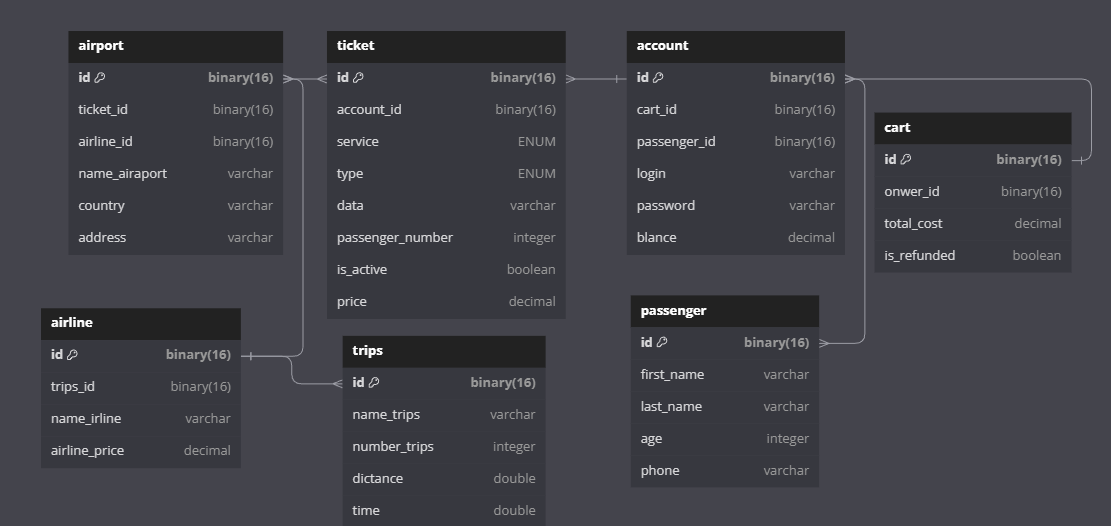
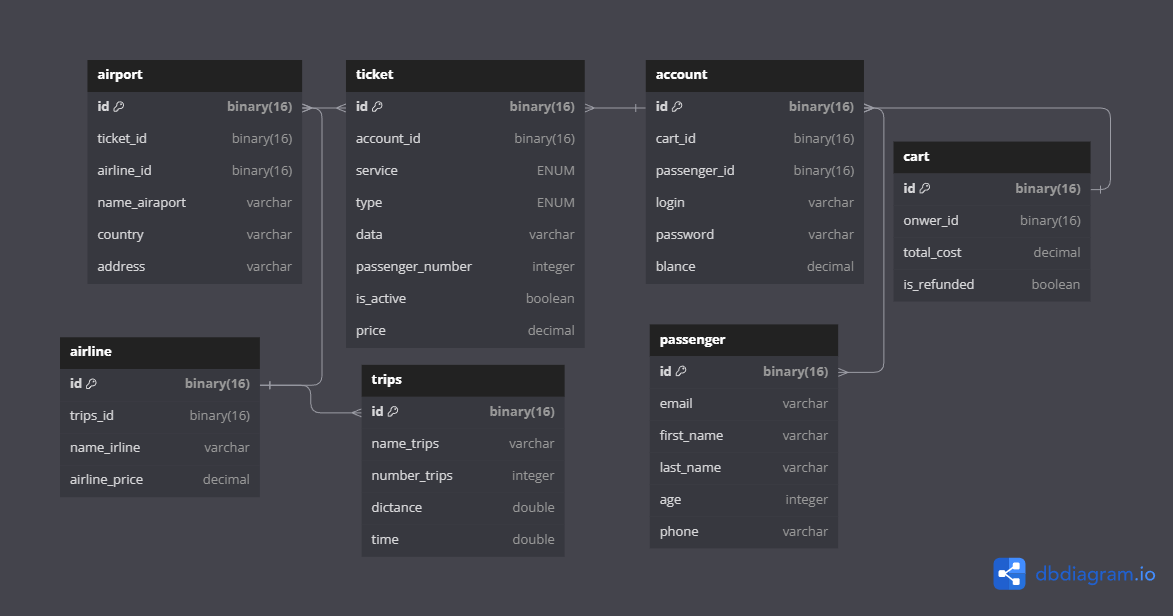
added a new field to the passenger class. updated the png file. changed the enamas to the correct ones.

diff --git a/src/main/java/com/vahner/airticketsapp/entity/Cart.java b/src/main/java/com/vahner/airticketsapp/entity/Cart.java
@@ -7,8 +7,8 @@ import lombok.NoArgsConstructor;
 import lombok.Setter;
 
 import java.math.BigDecimal;
-import java.util.List;
 import java.util.Objects;
+import java.util.Set;
 import java.util.UUID;
 
 import static jakarta.persistence.CascadeType.*;
@@ -30,7 +30,7 @@ public class Cart {
 
     @OneToMany(mappedBy = "account",fetch = FetchType.LAZY,
     orphanRemoval = true,cascade = {MERGE, PERSIST, REFRESH})
-    private List<Ticket> ticketList;
+    private Set<Ticket> ticketSet;
 
     @OneToOne(cascade = {MERGE, PERSIST, REFRESH})
     @Column(name = "onwer_id")
@@ -57,7 +57,7 @@ public class Cart {
         return "Cart{" +
                 "id=" + id +
                 ", totalCost=" + totalCost +
-                ", ticketList=" + ticketList +
+                ", ticketList=" + ticketSet +
                 ", owner=" + owner +
                 '}';
     }

diff --git a/src/main/java/com/vahner/airticketsapp/entity/Passenger.java b/src/main/java/com/vahner/airticketsapp/entity/Passenger.java
@@ -9,7 +9,7 @@ import lombok.Setter;
 import java.util.Objects;
 import java.util.UUID;
 @Entity
-@Table(name = "passenger")
+@Table(name = "Passenger")
 @Setter
 @Getter
 @AllArgsConstructor
@@ -19,6 +19,9 @@ public class Passenger {
     @GeneratedValue(strategy = GenerationType.AUTO)
     @Column(name = "id")
     private UUID id;
+
+    @Column(name = "email")
+    private String email;
 
     @Column(name = "first_name")
     private String firstName;

diff --git a/src/main/java/com/vahner/airticketsapp/entity/enums/ClasService.java b/src/main/java/com/vahner/airticketsapp/entity/enums/ClasService.java
@@ -4,9 +4,9 @@ import lombok.Getter;
 
 @Getter
 public enum ClasService {
-    Economy("Economy"),
-    Business("Business"),
-    First("First");
+    ECONOMY("Economy"),
+    BUSINESS("Business"),
+    FIRST("First");
 
     private final String service;
 

diff --git a/src/main/java/com/vahner/airticketsapp/entity/enums/PassegerType.java b/src/main/java/com/vahner/airticketsapp/entity/enums/PassegerType.java
@@ -4,8 +4,8 @@ import lombok.Getter;
 
 @Getter
 public enum PassegerType {
-    Adult("Adult"),
-    Child("Child");
+    ADULT("Adult"),
+    CHILD("Child");
 
     private final String type;
 
